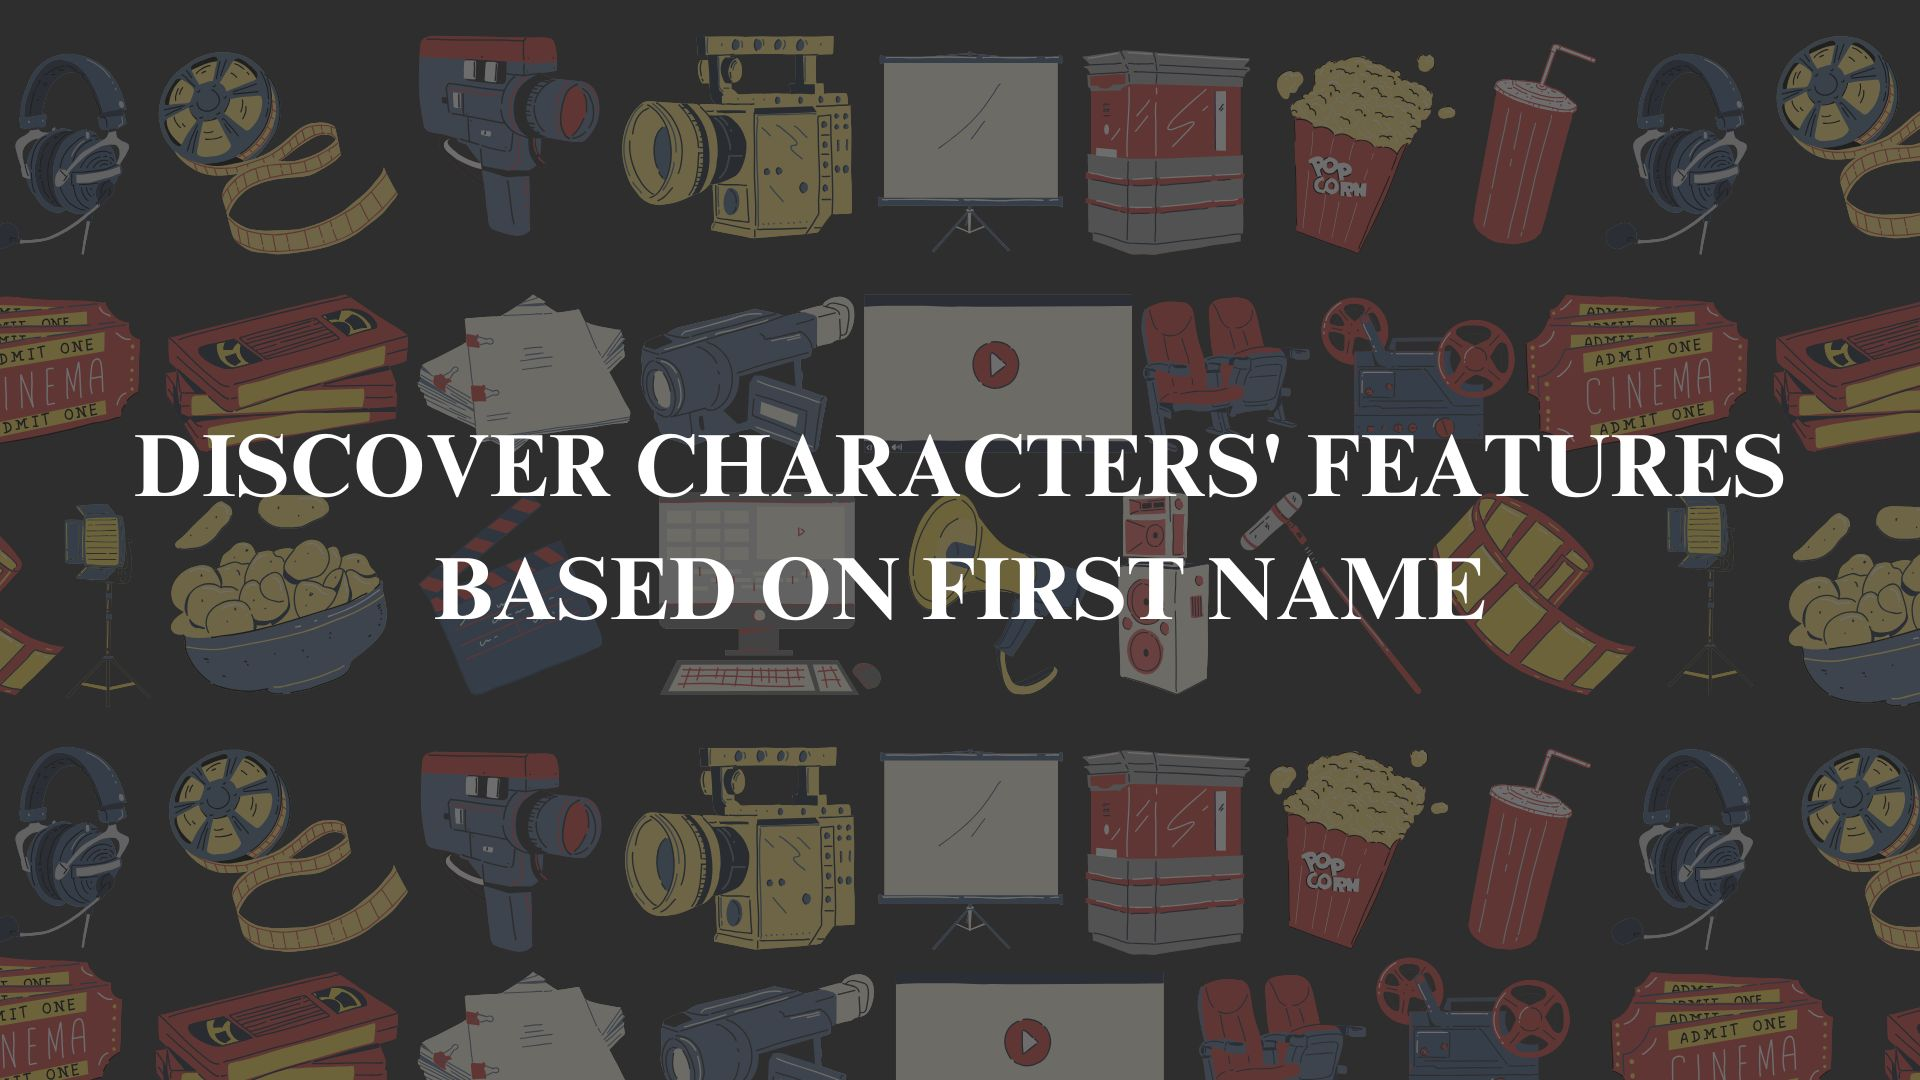
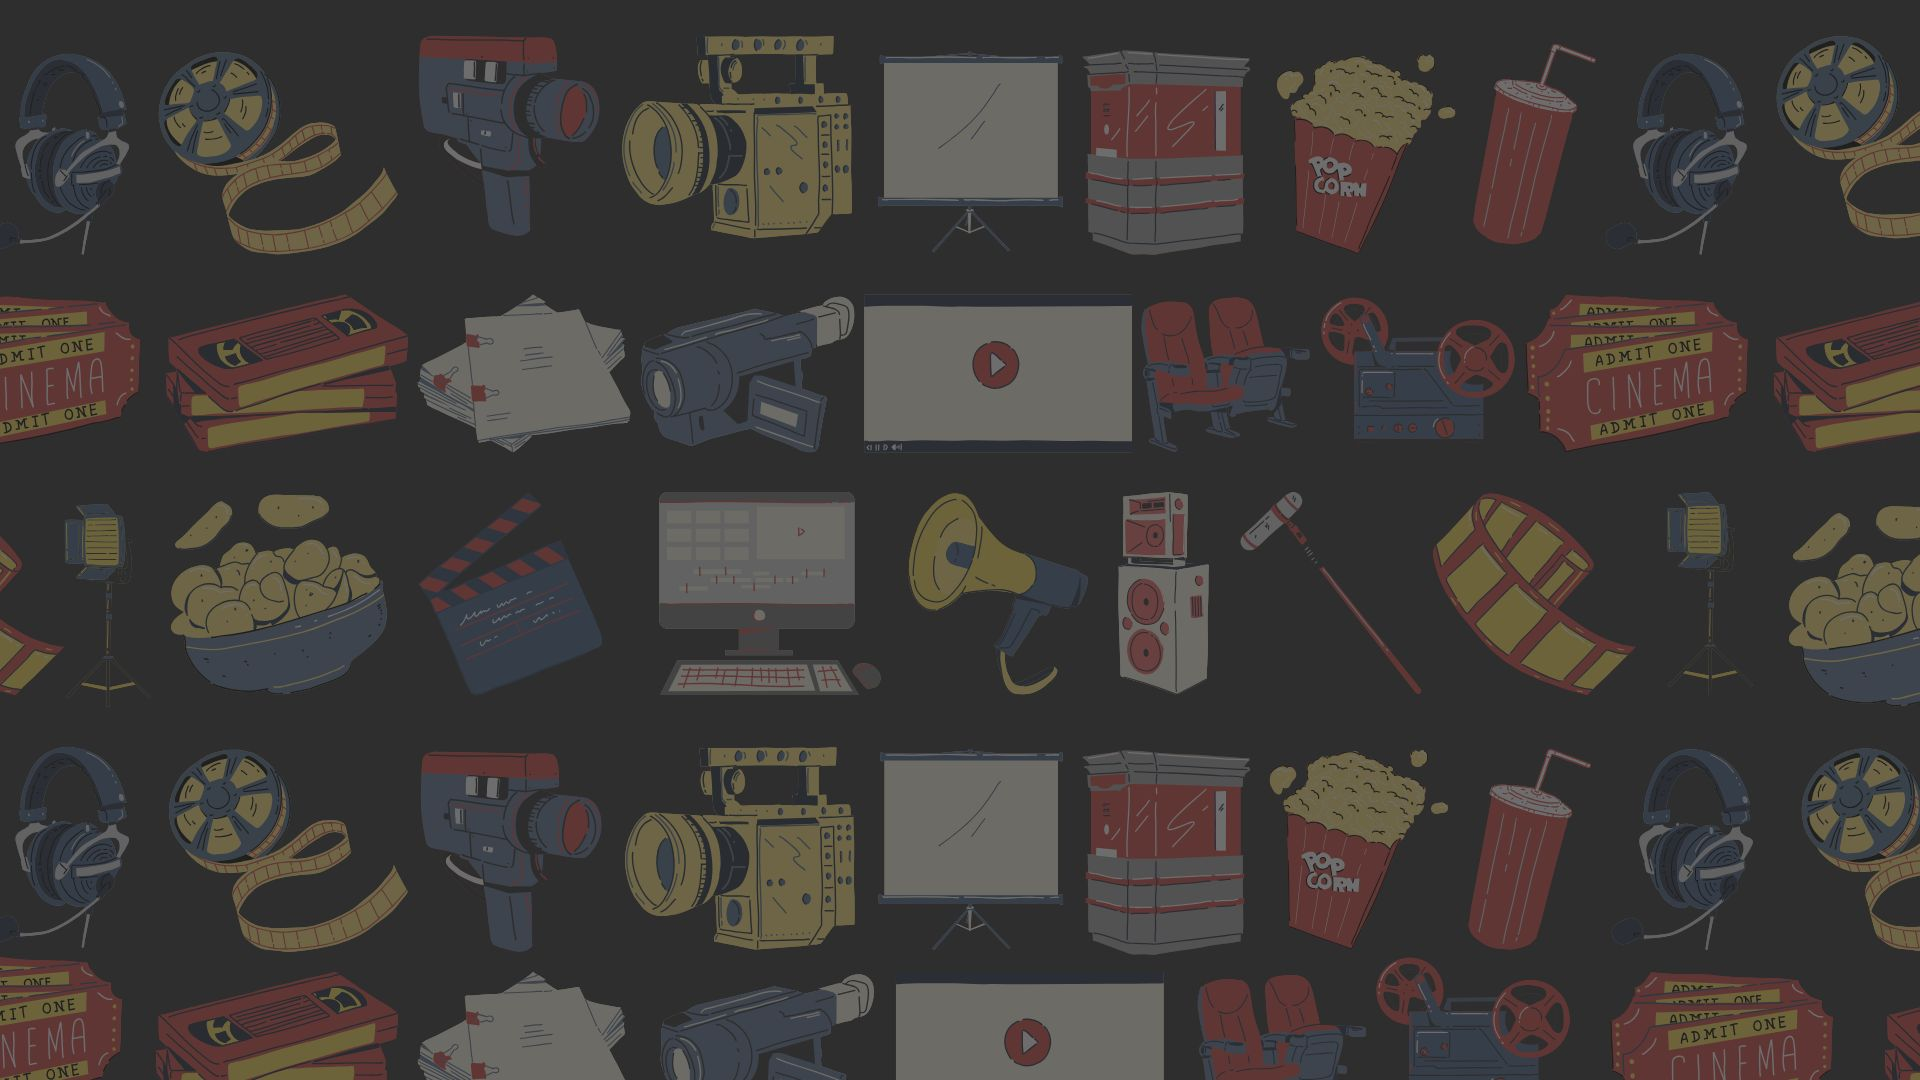
c

Changed region(s): [[0.0625, 0.3972, 0.9375, 0.4583], [0.2188, 0.5194, 0.7812, 0.5806]]

diff --git a/index.md b/index.md
@@ -1,9 +1,24 @@
 ---
 layout: home
-# title: DISCOVER CHARACTERS' FEATURES BASED ON FIRST NAME
-# subtitle: This is where I will tell my friends way too much about me
+title: DISCOVER CHARACTERS' FEATURES BASED ON FIRST NAME
 ---
-<img src="{{ site.baseurl }}/assets/img/IMG_title.png" alt="Title Image" style="width:100%; max-height:300px; object-fit:cover;">
+
+<style>
+.header-title {
+  background: url("{{ site.baseurl }}/assets/img/IMG_title.jpg") no-repeat center center;
+  background-size: cover;
+  color: white; /* Ajustez selon votre image */
+  padding: 4rem 2rem;
+  text-align: center;
+  font-size: 3rem;
+  font-weight: bold;
+  text-shadow: 2px 2px 4px rgba(0, 0, 0, 0.8);
+}
+</style>
+
+<div class="header-title">
+  {{ page.title }}
+</div>
 
 <iframe src="{{ site.baseurl }}/assets/plots/presentation_data_values.html" width="100%" height="800" frameborder="0"></iframe>
 <!-- <iframe src="{{ site.baseurl }}/assets/plots/plot_presentation_data_values.html" width="100%" height="800" frameborder="0"></iframe> -->
